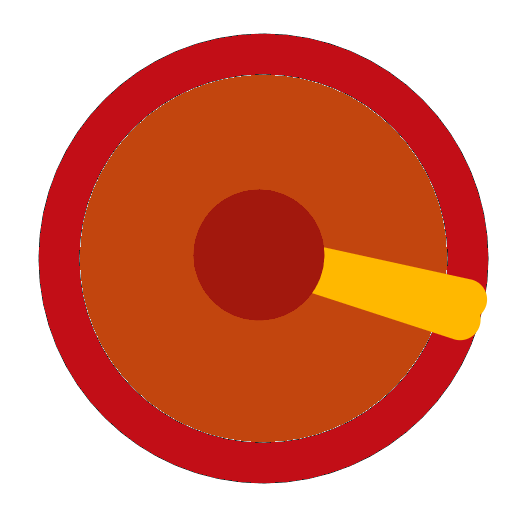
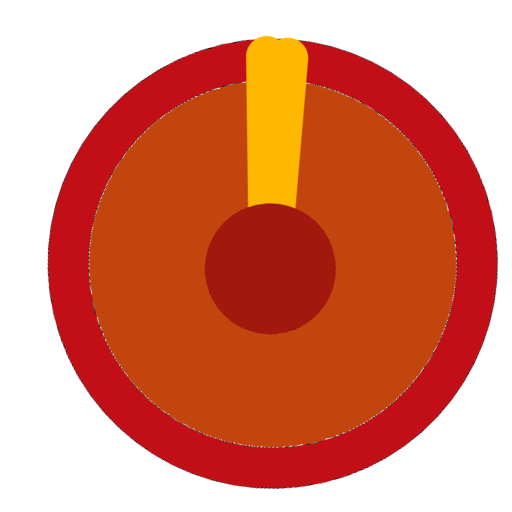
Refacotr PR requests - rotate lighthouse image so it better follows the cursor - adjust whitespace - fix unit vector typo

diff --git a/src/lighthouse.cpp b/src/lighthouse.cpp
@@ -3,7 +3,6 @@
 #include "le2d/data_loader.hpp"
 
 namespace miracle {
-
 Lighthouse::Lighthouse(gsl::not_null<le::ServiceLocator const*> services) : m_services(services) {
 	m_sprite.create(200.0f);
 
@@ -13,12 +12,13 @@ Lighthouse::Lighthouse(gsl::not_null<le::ServiceLocator const*> services) : m_se
 	m_texture = asset_loader.load_texture("images/lighthouse.png");
 	m_sprite.texture = &m_texture.value();
 }
-void Lighthouse::rotate_towards_cursor(glm::vec2 const& cursor_pos) {
+
+void Lighthouse::rotate_towards_cursor(glm::vec2 cursor_pos) {
 	auto const dist_sq = glm::length2((cursor_pos));
 	if (dist_sq > 0.1f) {
 		auto const dist = std::sqrt(dist_sq);
 		auto const normalized = cursor_pos / dist;
-		static constexpr auto up_v = glm::vec2(0.01f, 1.0f);
+		static constexpr auto up_v = glm::vec2(0.0f, 1.0f);
 		auto const dot = glm::dot(normalized, up_v);
 		auto const angle = glm::degrees(std::acos(dot));
 		m_sprite.transform.orientation = cursor_pos.x > 0.0f ? -angle : angle;

diff --git a/src/lighhouse.hpp b/src/lighhouse.hpp
@@ -6,19 +6,20 @@
 #include <le2d/event.hpp>
 #include <le2d/renderer.hpp>
 #include <le2d/service_locator.hpp>
-#include "glm/ext/vector_float2.hpp"
-#include "gsl/pointers"
+#include <optional>
 #include "le2d/texture.hpp"
+
 namespace miracle {
 class Lighthouse {
   public:
 	explicit Lighthouse(gsl::not_null<le::ServiceLocator const*> services);
-	void rotate_towards_cursor(glm::vec2 const& cursor_pos);
+
+	void rotate_towards_cursor(glm::vec2 cursor_pos);
 	void render(le::Renderer& renderer) const;
 
   private:
-	le::drawable::Circle m_sprite{};
-	std::optional<le::Texture> m_texture;
 	gsl::not_null<le::ServiceLocator const*> m_services;
+	std::optional<le::Texture> m_texture;
+	le::drawable::Circle m_sprite{};
 };
 } // namespace miracle
